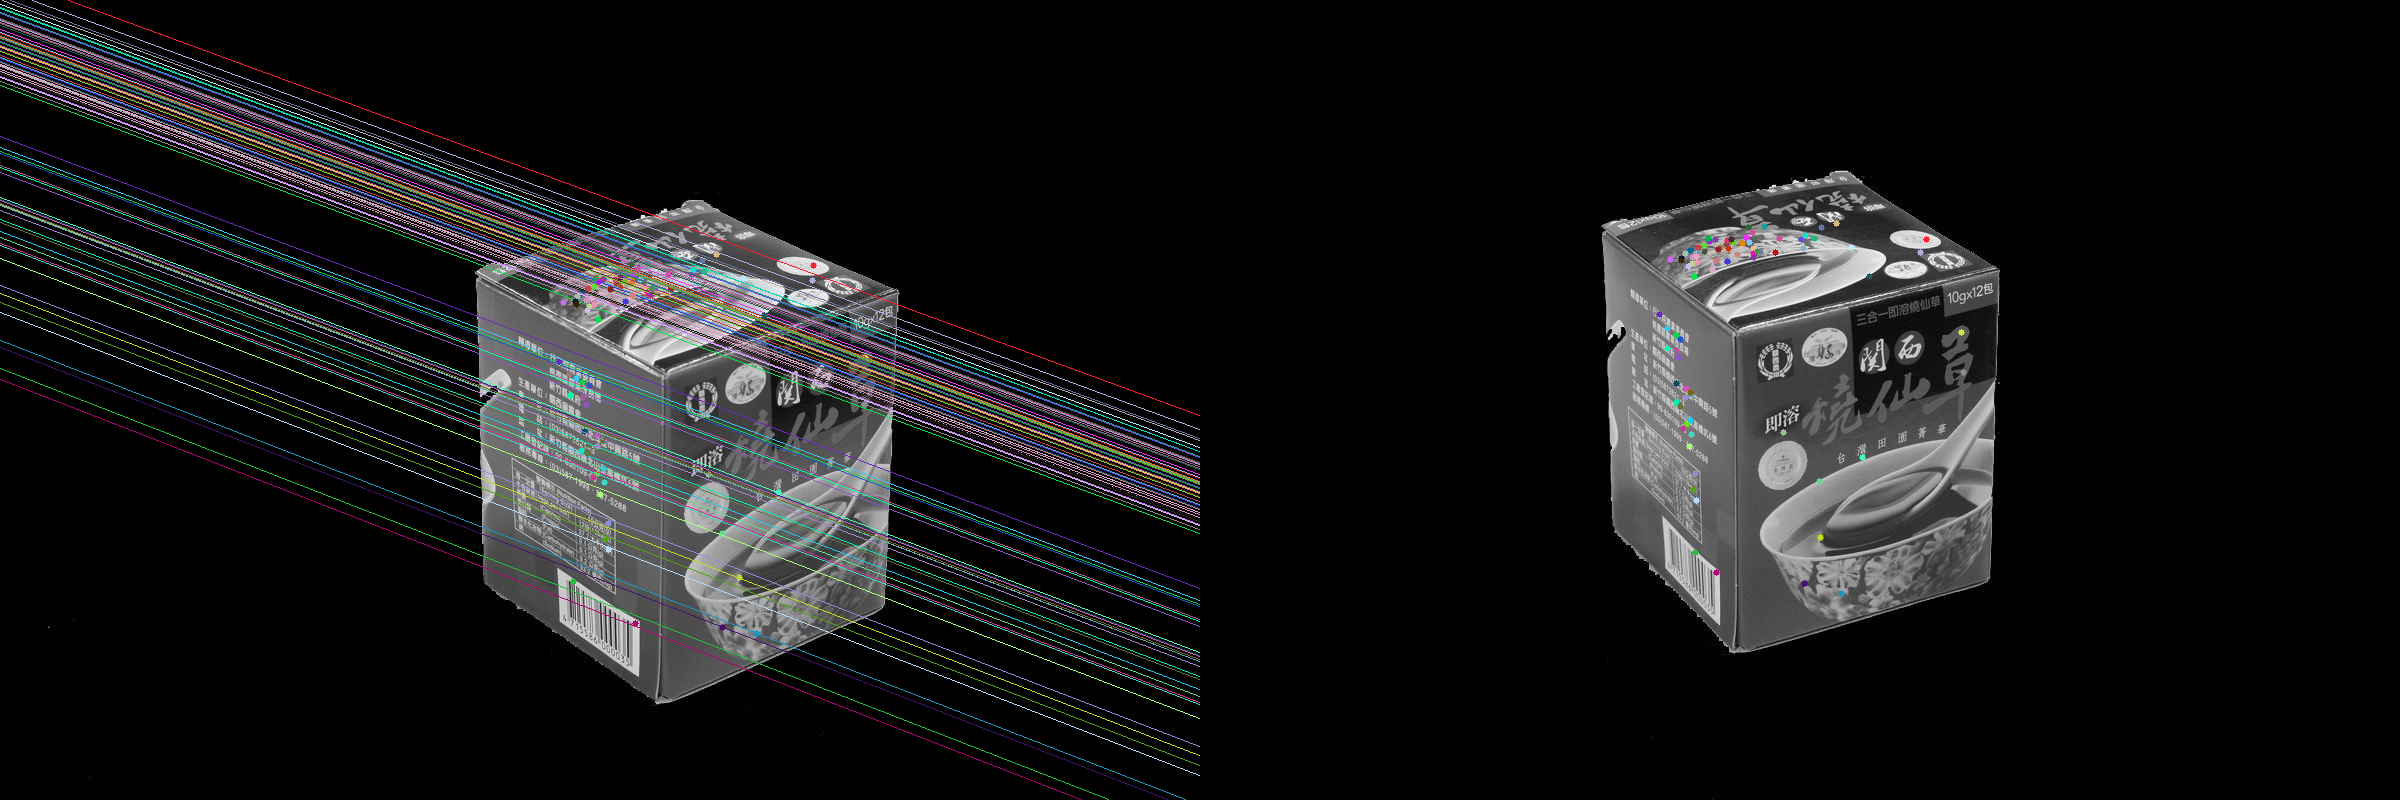
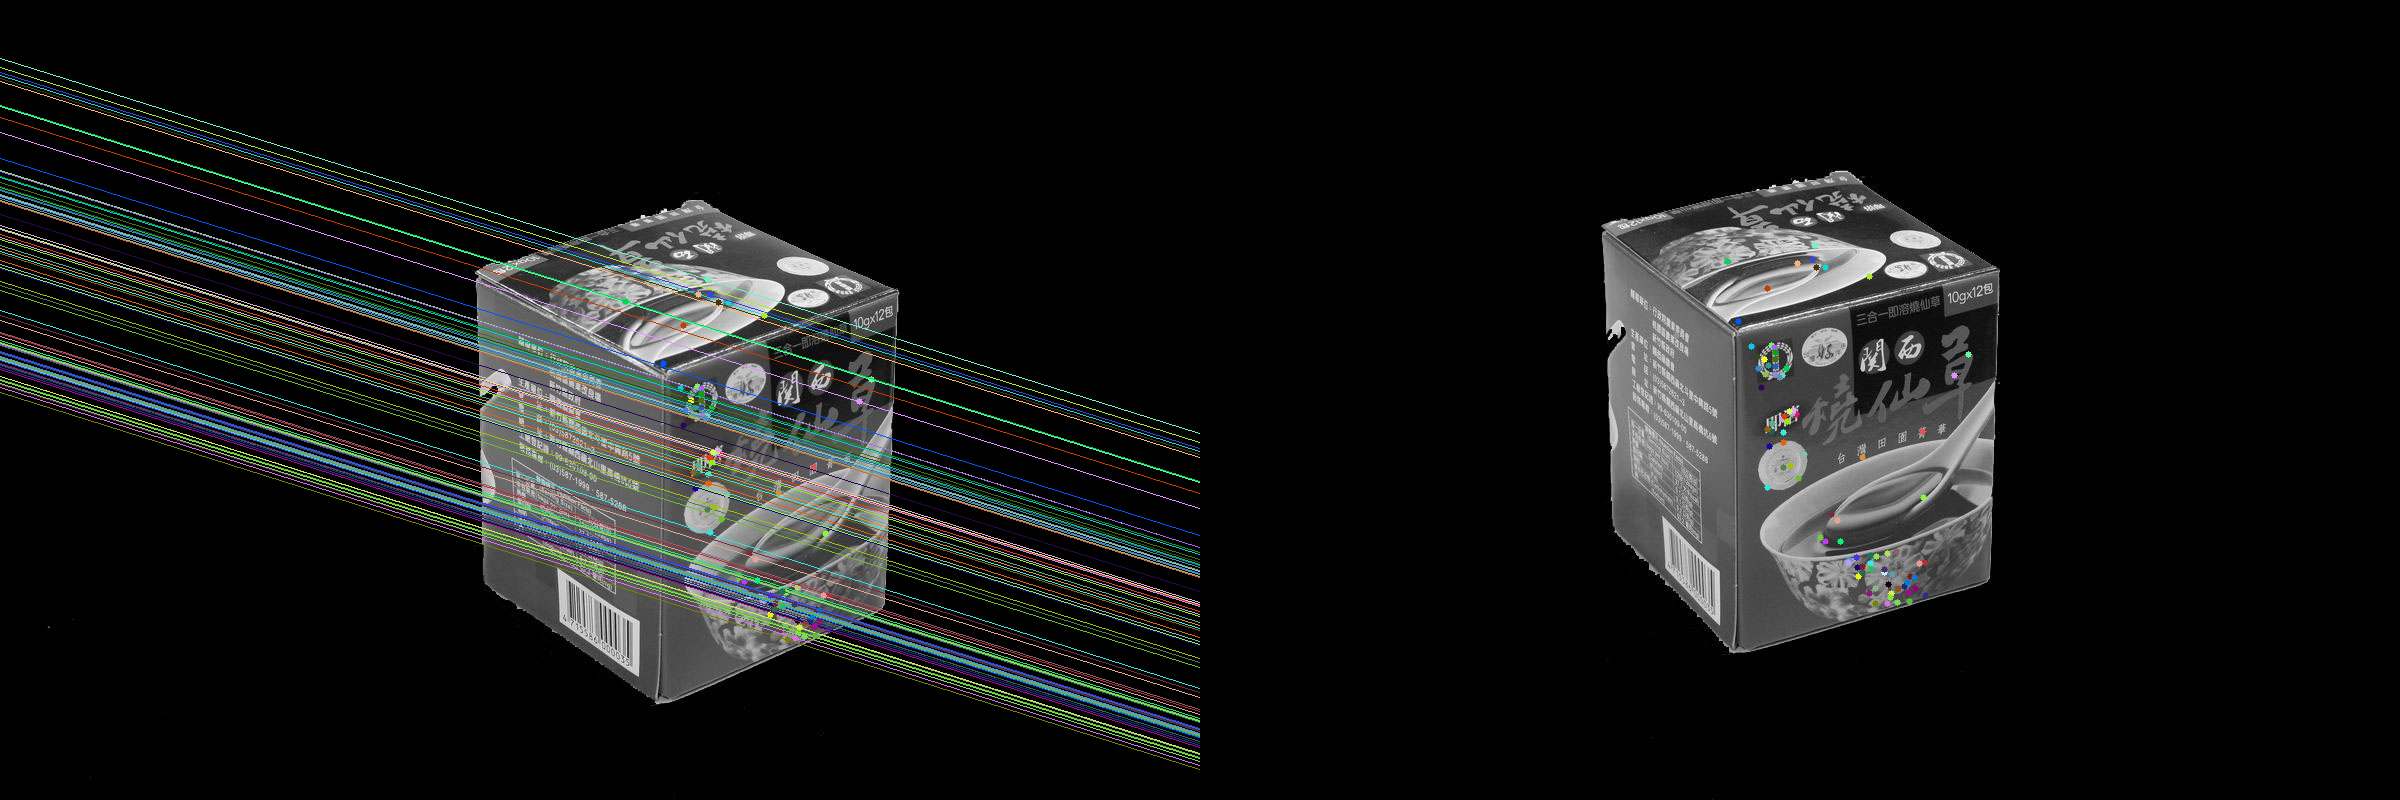
step6

diff --git a/lab4/triangular.py b/lab4/triangular.py
@@ -40,10 +40,20 @@ def count_p_front(points, m):
     '''
     m = [R|t]
     c = -Rt
+    
+    points = [x0, x1, x2 ...]
+             [y0, y1, y2 ...]
+             [z0, z1, z2 ...]
     '''
     camera_c = np.dot(-m[:, 0:3], m[:, 3].T)
+    count = 0
     for pt in points.T:
-        print(pt)
+        if np.dot((pt - camera_c), m[:, 2].T) > 0:
+            count = count + 1
+    print(m)
+    print(count)
+    return count    
+        
 
 def find_true_E(m1, m2, m3, m4, x, xp):
     pt1 = triangular(m1, x, xp)
@@ -51,5 +61,24 @@ def find_true_E(m1, m2, m3, m4, x, xp):
     pt3 = triangular(m3, x, xp)
     pt4 = triangular(m4, x, xp)
     
-    count_p_front(pt1, m1)
     
+    count1 = count_p_front(pt1, m1)
+    count2 = count_p_front(pt2, m2)
+    count3 = count_p_front(pt3, m3)
+    count4 = count_p_front(pt4, m4)
+    ansE = m1
+    max_count = count1
+    anspt = pt1
+    if count2 > max_count:
+        ansE = m2
+        max_count = count2
+        anspt = pt2
+    if count3 > max_count:
+        ansE = m3
+        max_count = count3
+        anspt = pt3
+    if count4 > max_count:
+        ansE = m4
+        max_count = count4     
+        anspt = pt4
+    return ansE, anspt

diff --git a/lab4/SfM.py b/lab4/SfM.py
@@ -83,5 +83,5 @@ K = np.array([[1.4219, 0.0005, 0.5092],
 m1, m2, m3, m4 = find_E(K, F)
 ## Step5 : find out the most appropriate solution of essential matrix
 ## Step6 : apply triangulation to get 3D points
-find_true_E(m1, m2, m3, m4, inliers_x.T, inliers_xp.T)
+true_E, points3D = find_true_E(m1, m2, m3, m4, inliers_x.T, inliers_xp.T)
 ## Step7 : find out correspondence across images
